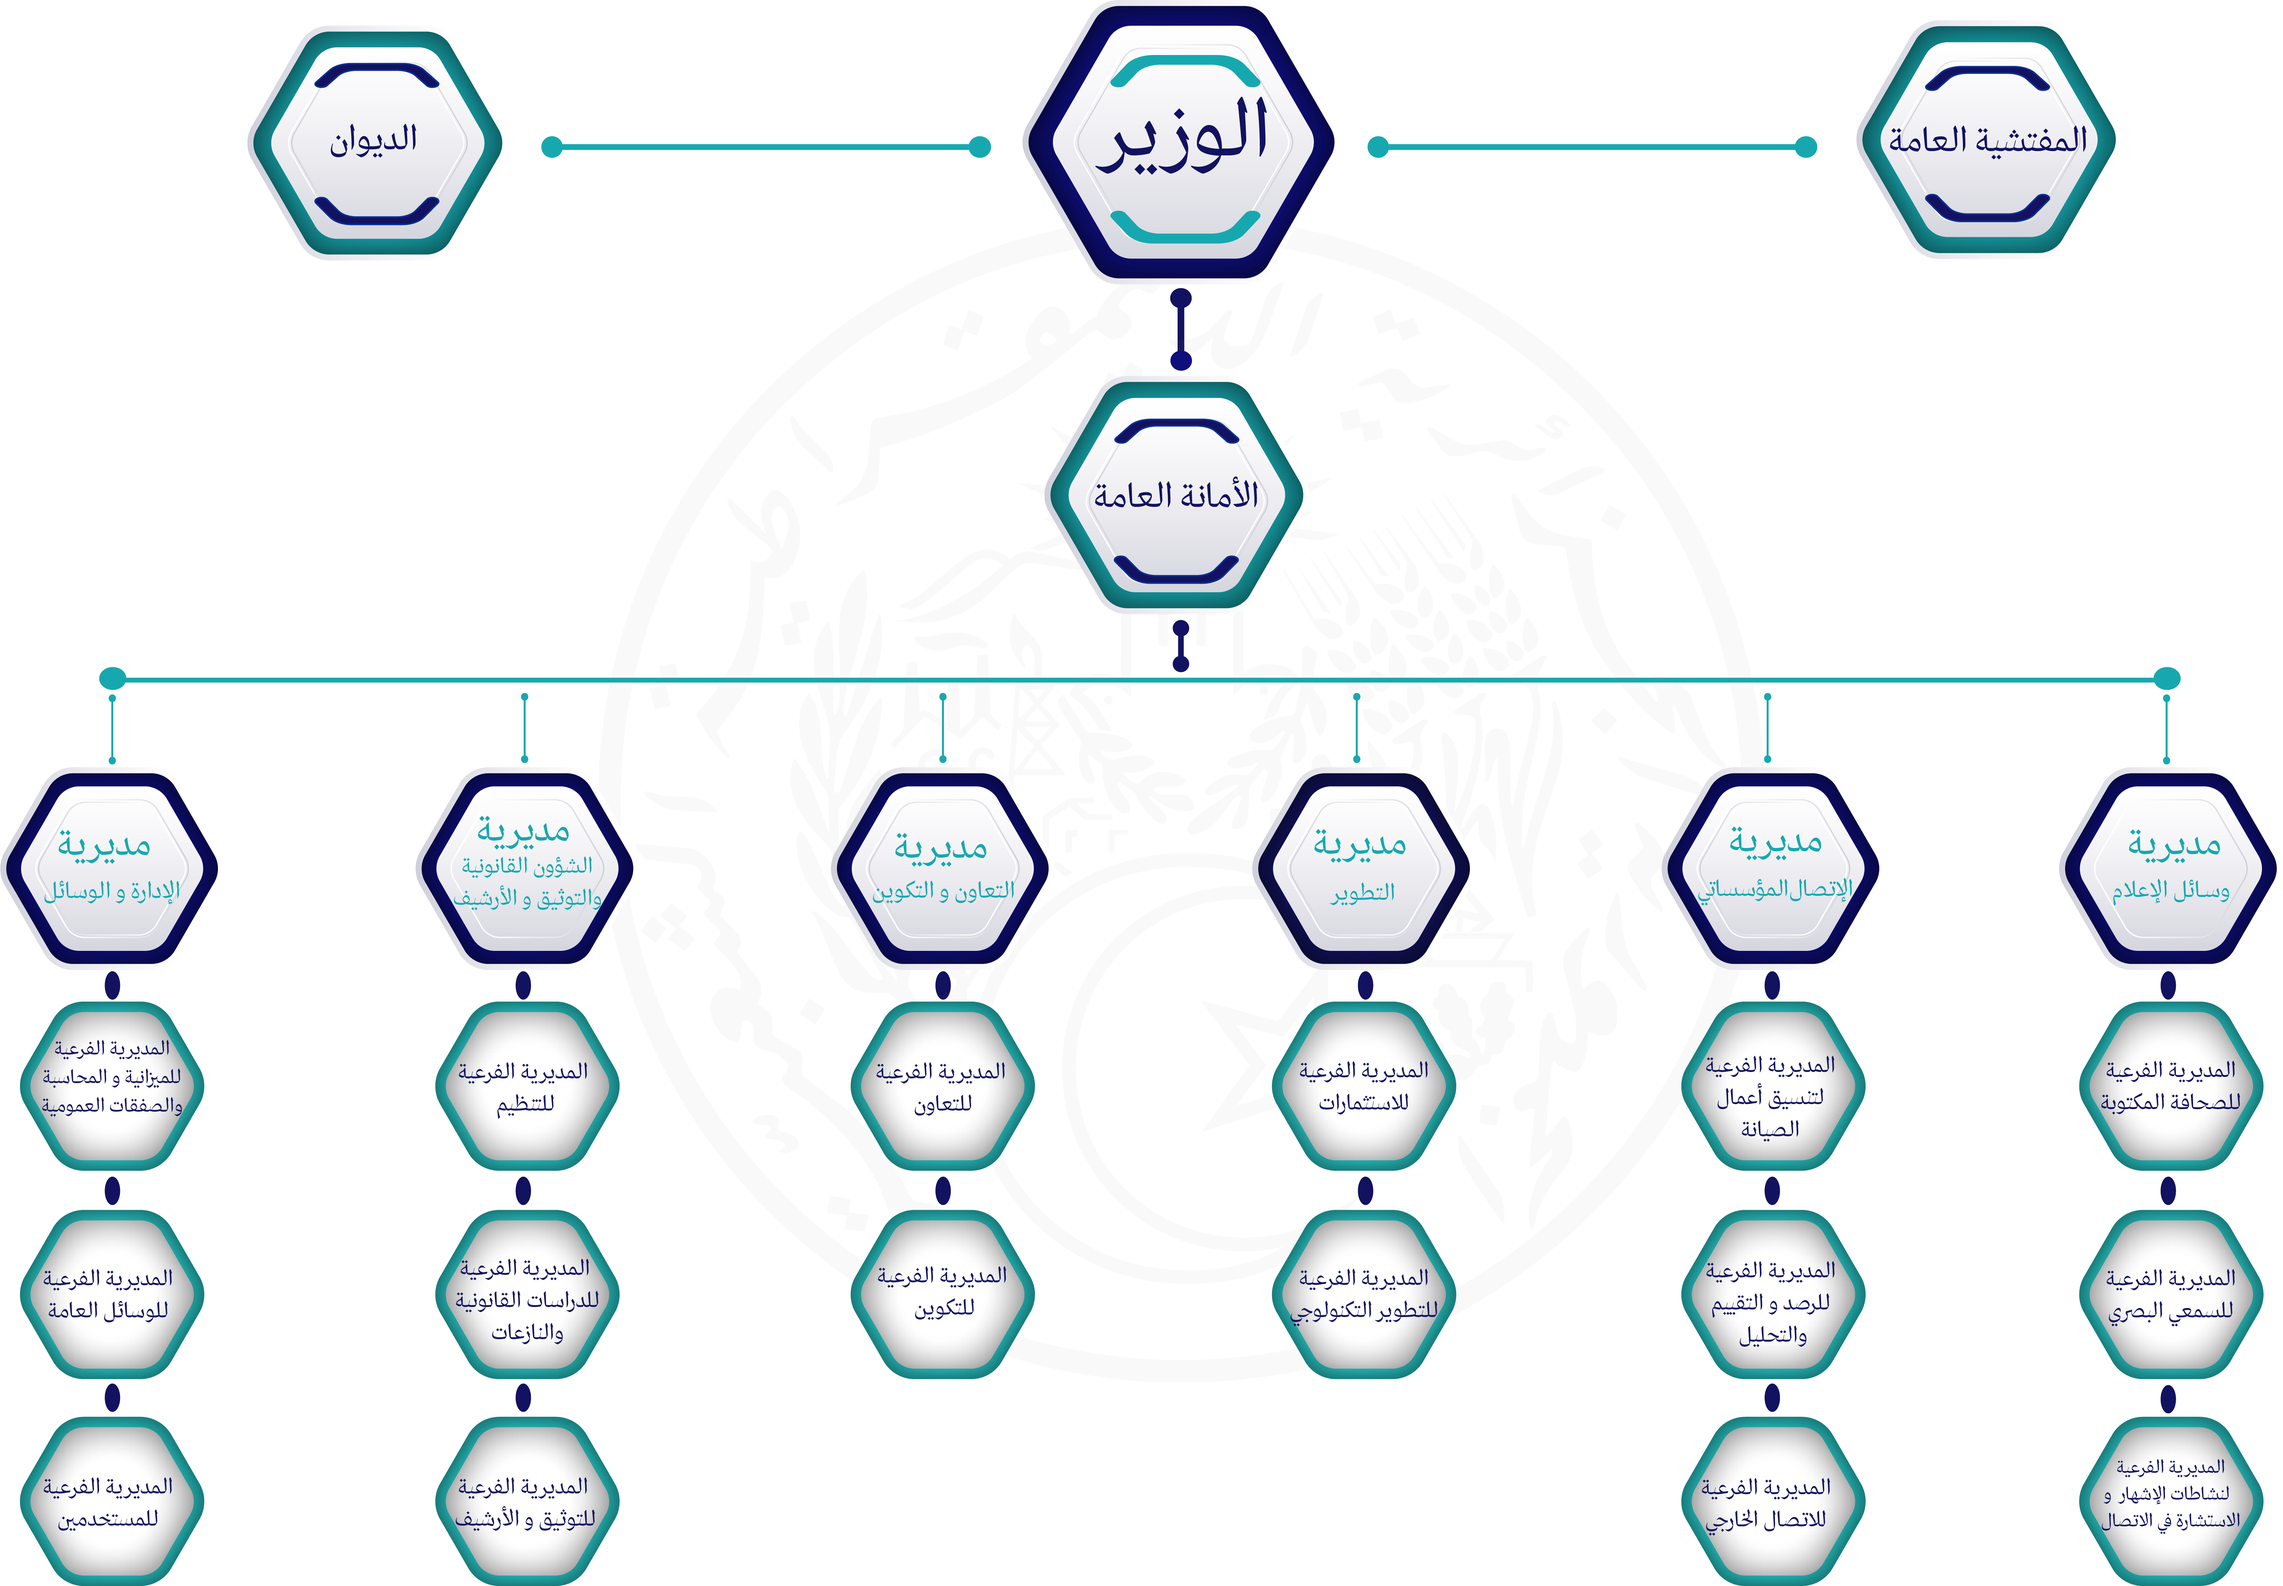
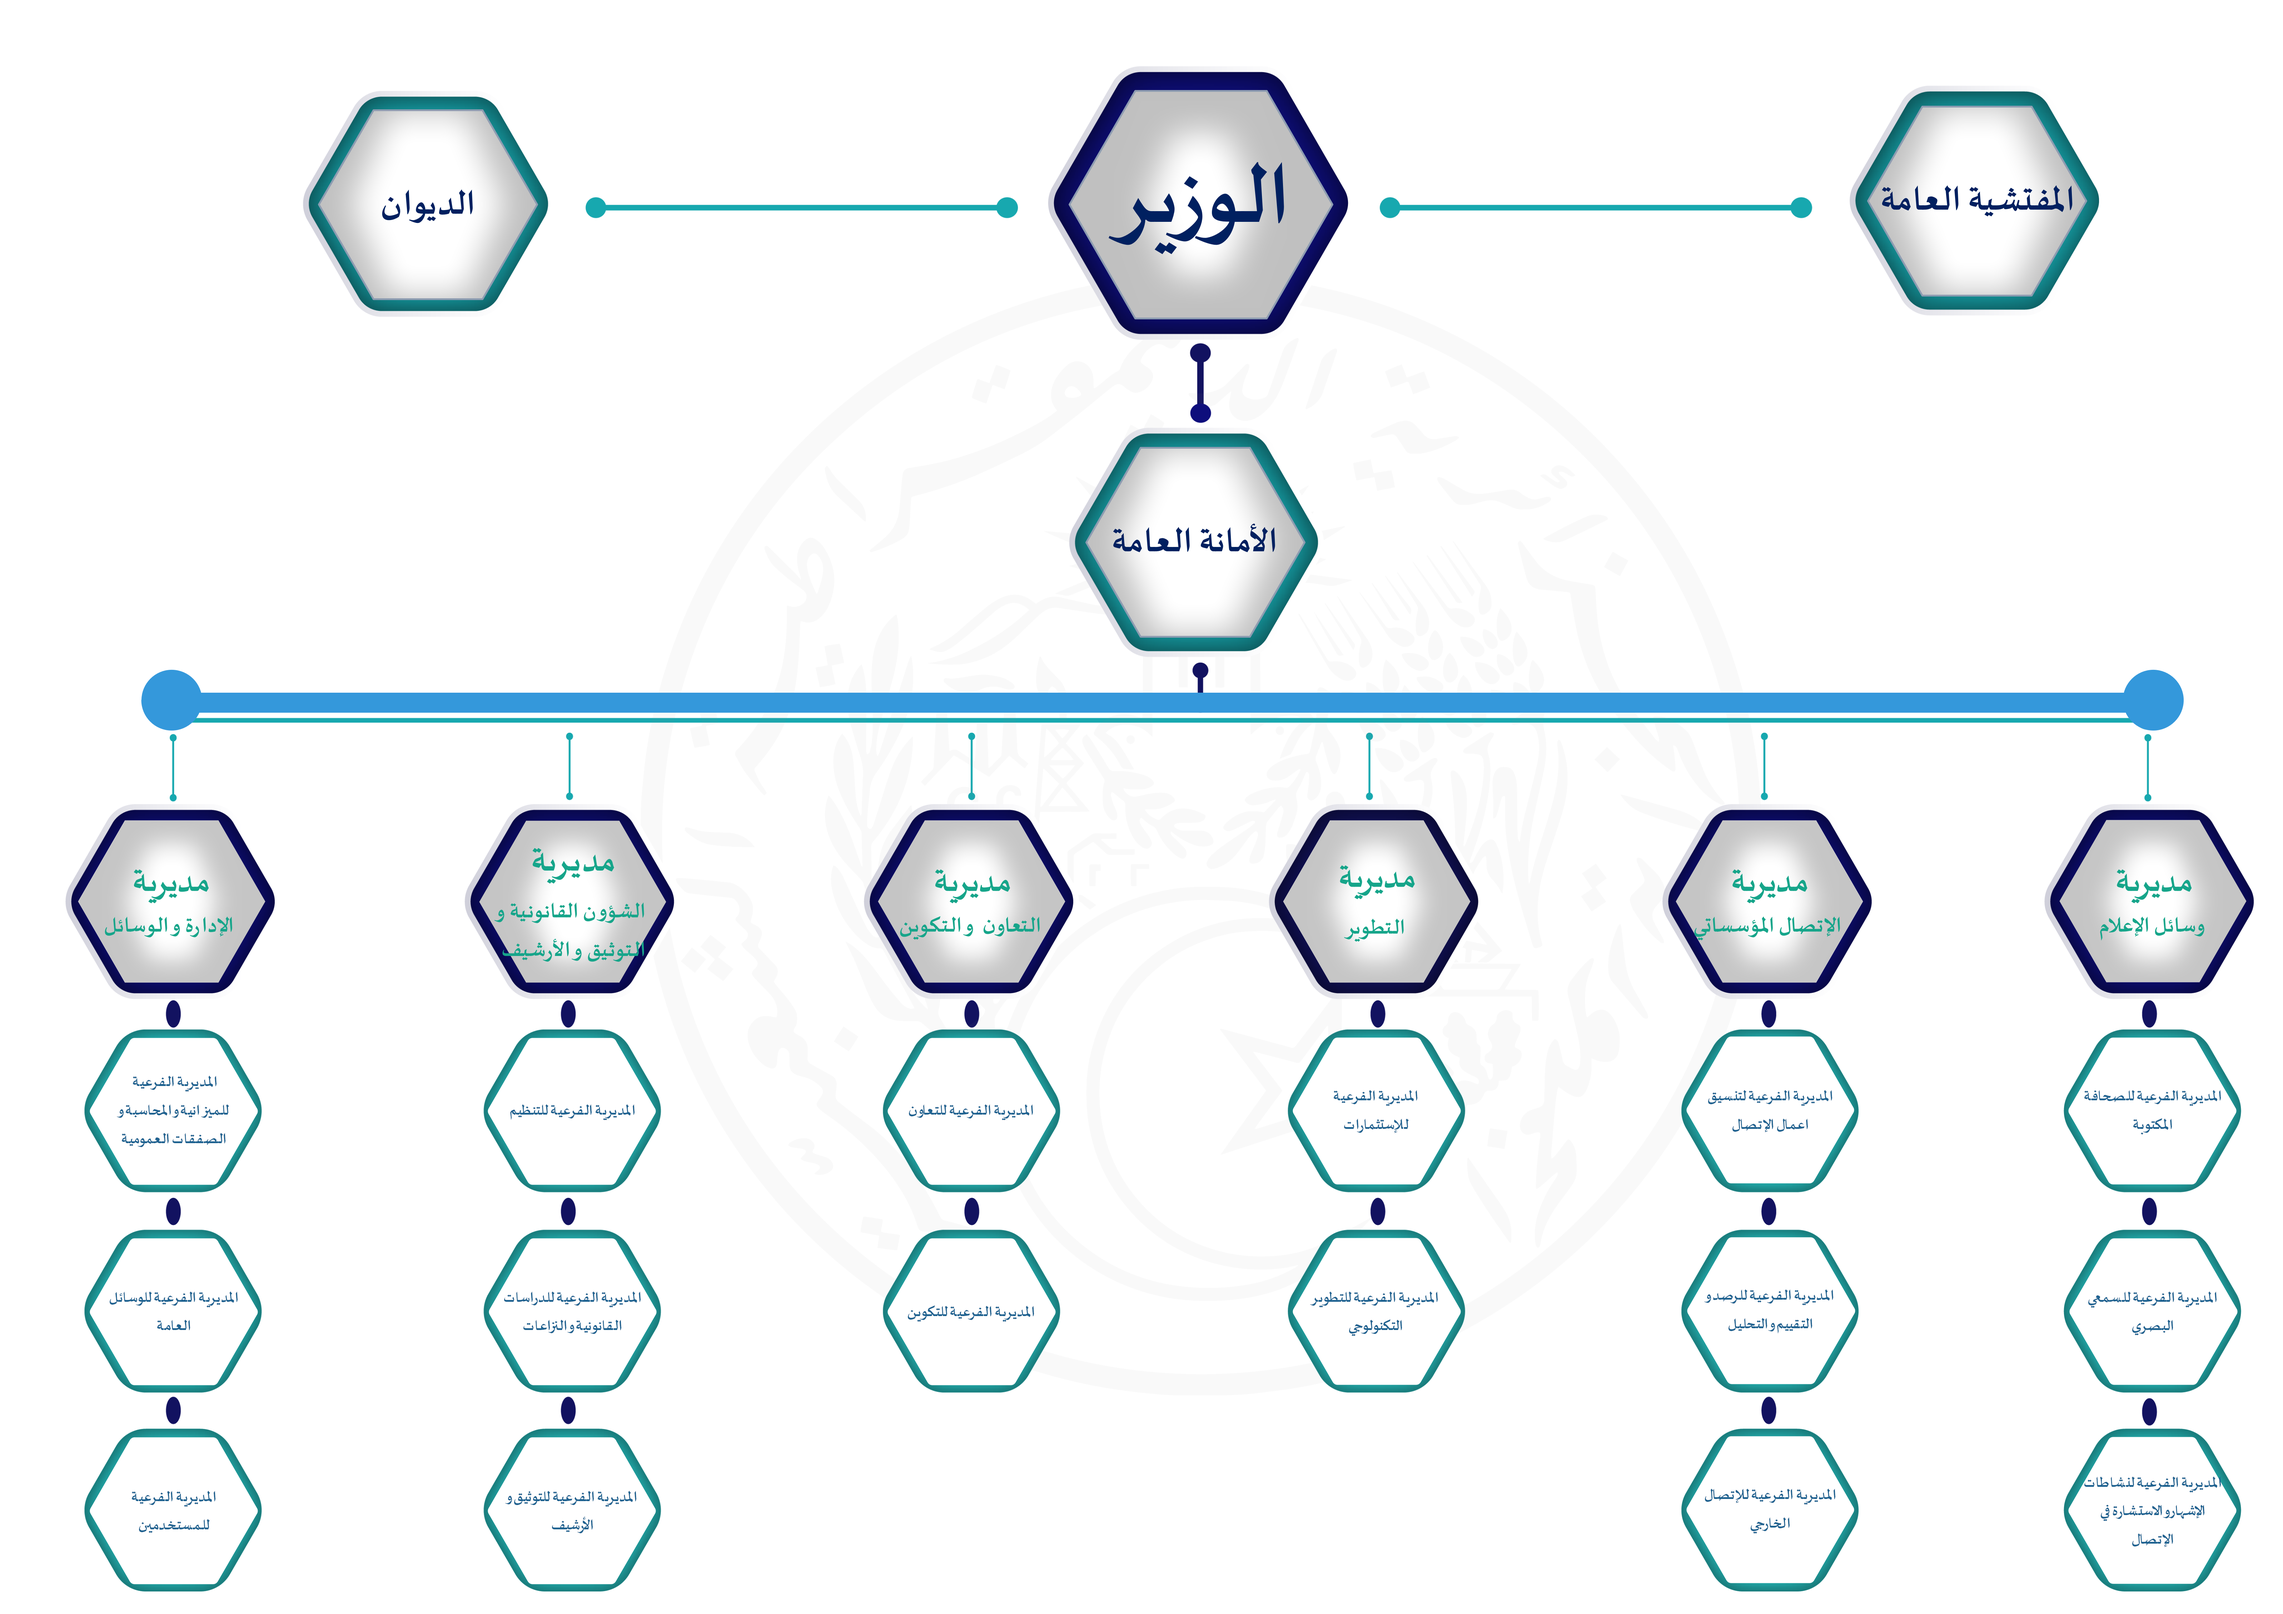
update

Changed region(s): [[0.0, 0.0, 0.9966, 1.0]]

diff --git a/src/main/resources/templates/authenticated/presse/PressEdit.html b/src/main/resources/templates/authenticated/presse/PressEdit.html
@@ -100,7 +100,7 @@
                                 <label for="Address" class="col-md-4 col-lg-12 col-form-label">Address
                                     (Office)</label>
                                 <div class="col-md-8 col-lg-9">
-                                    <input name="address" type="text" class="form-control" id="address"
+                                    <input name="adresse" type="text" class="form-control" id="adresse"
                                            placeholder="Address (Office)"
                                            th:value="${press.getAdresse()}">
                                 </div>

diff --git a/src/main/java/com/example/demo/entities/Presse.java b/src/main/java/com/example/demo/entities/Presse.java
@@ -769,11 +769,30 @@ public String toString() {
         + ")";
 }
 
-public Presse(final Long id, final String name, final String nameFr, final String nameEn, final String description,
-        final String descriptionFr, final String descriptionEn, final String website, final String typepbpr,
-        final String categorieelec, final String adresse, final String adresseFr, final String adresseEn, final String phone, final String fax, final String email,
-        final String site, final List<PresseCategorie> presseCategories,
-        final Complexe complexe, final CategoriePress categoriePresse,final Pressejr Pressejr, final Language Language,final List<Multimedia> multimediaList, final LocalDateTime createdAt,
+public Presse(final Long id,
+ final String name,
+  final String nameFr, 
+  final String nameEn, 
+  final String description,
+        final String descriptionFr,
+        final String descriptionEn,
+        final String website,
+        final String typepbpr,
+        final String categorieelec,
+        final String adresse,
+        final String adresseFr,
+        final String adresseEn,
+        final String phone,
+        final String fax,
+        final String email,
+        final String site,
+        final List<PresseCategorie> presseCategories,
+        final Complexe complexe,
+        final CategoriePress categoriePresse,
+        final Pressejr Pressejr, 
+        final Language Language,
+        final List<Multimedia> multimediaList,
+        final LocalDateTime createdAt,
        
         final LocalDateTime updatedAt) {
     this.id = id;
@@ -964,10 +983,31 @@ public Presse(final Long id, final String name, final String nameFr, final Strin
 
         // Méthode pour construire l'objet Presse
         public Presse build() {
-            return new Presse(id, name, nameFr, nameEn, description, descriptionFr, descriptionEn, website, typepbpr,
-                    categorieelec, adresse, adresseEn, adresseFr, phone, fax, email, site, presseCategories, complexe,
-                    categoriePresse ,Pressejr,Language,
-                    multimediaList, createdAt, updatedAt);
+            return new Presse(id,
+            name,
+            nameFr,
+            nameEn, 
+            description, 
+            descriptionFr, 
+            descriptionEn, 
+            website, 
+            typepbpr,
+            categorieelec, 
+            adresse, 
+            adresseEn, 
+            adresseFr, 
+            phone, 
+            fax, 
+            email, 
+            site, 
+            presseCategories, 
+            complexe,
+            categoriePresse ,
+            Pressejr,
+            Language,
+            multimediaList, 
+            createdAt, 
+            updatedAt);
         }
 
         public String toString() {

diff --git a/src/main/java/com/example/demo/controller/PresseController.java b/src/main/java/com/example/demo/controller/PresseController.java
@@ -416,13 +416,13 @@ public String findTVById(Model model, @PathVariable Long id) {
     @PostMapping({"/update/{id}"})
     public RedirectView updatedPress(@PathVariable Long id,@ModelAttribute  Presse updatePress,@RequestParam("profilFiles") List<MultipartFile> multimediaFiles,@RequestParam("selectedCategorie") Optional<Long> cat)
     {
-        Presse presse = this.presseService.findPresseById(id);
+      //  Presse presse = this.presseService.findPresseById(id);
       // Optional<Multimedia> multimedia=this.multimediaService.findFirstByEtablissement(etablissement);
        Optional<Presse> existingPress = this.presseService.findById(id);
-       System.out.println(cat+" testing");
+       System.out.println(updatePress.getAdresse()+" testing adr");
        Boolean  check= this.presseService.updateDataPresse(updatePress,id,existingPress,multimediaFiles,cat);
        //return "authenticated/etablissement/etablissementsEdit.html";
-       return new RedirectView("/presse/presses");
+       return new RedirectView("/presse/pressesEdit/"+id);
     }
     @GetMapping("/delete/{id}")
     public RedirectView Deletepress(@PathVariable Long id) {

diff --git a/src/main/java/com/example/demo/service/PresseService.java b/src/main/java/com/example/demo/service/PresseService.java
@@ -135,7 +135,7 @@ public class PresseService {
 
     public Boolean updateDataPresse(Presse Presse, Long userId,Optional<Presse> existingPress,List<MultipartFile> multimediaFiles,Optional<Long> cat) {
         if (existingPress.isPresent()) {
-          
+            //System.out.println("i will check it"+Presse.getAdresse());
             Presse press = existingPress.get();
             press.setName(Presse.getName());
             press.setNameFr(Presse.getNameFr());
